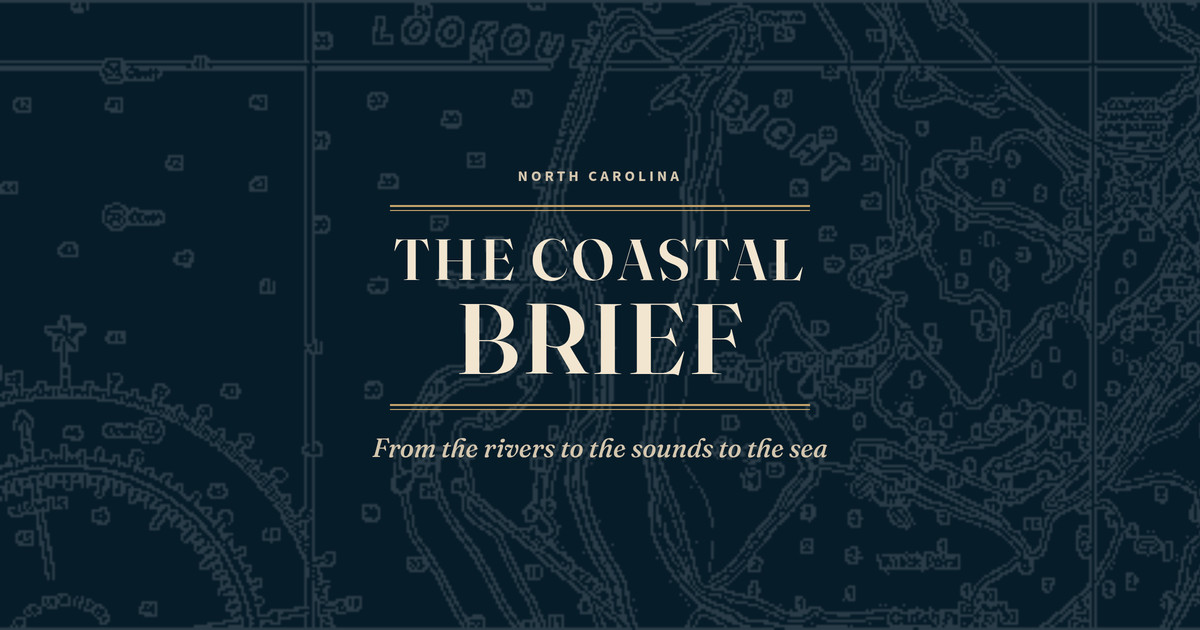
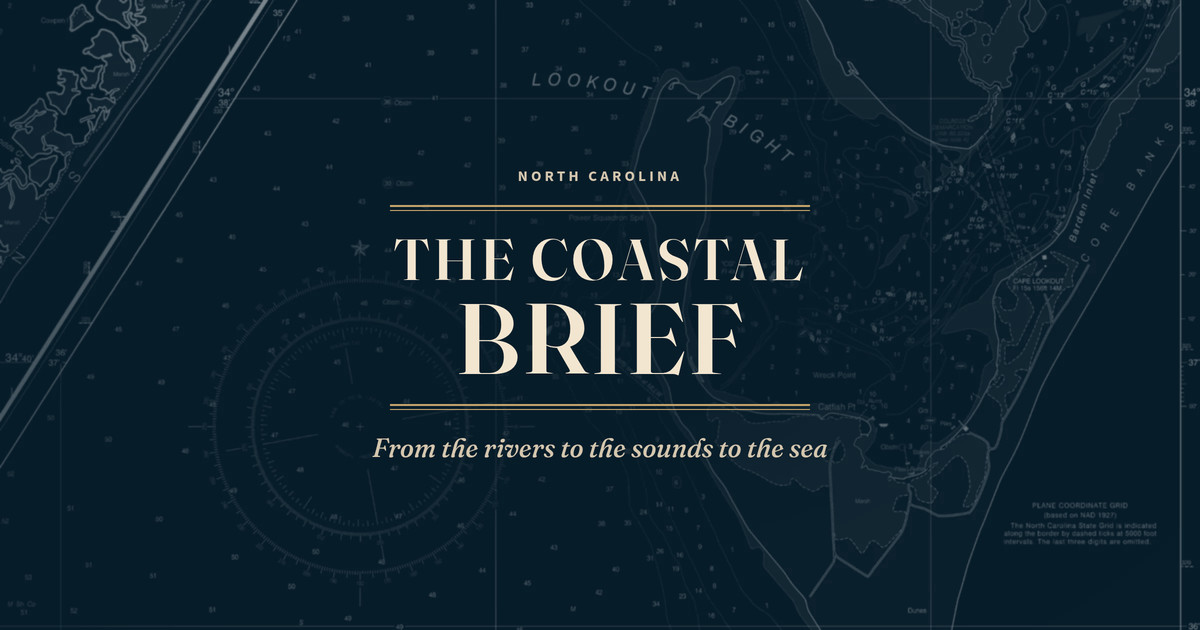
Fade the Open Graph chart texture with a higher-resolution crop.
Replace the enlarged 800×240 site-masthead webp on the OG card with a
separate 2400×1260 Lookout Bight crop from NOAA Chart 11545, smoothed
and contrast-crushed so it reads as a faint texture behind the nameplate.
Leave branding/og-preview.png in place.

diff --git a/branding/og-masthead.html b/branding/og-masthead.html
@@ -6,7 +6,9 @@
   Type: Fraunces and Source Sans 3, SIL Open Font License 1.1 (see /fonts).
   Texture: NOAA Chart 11545, Beaufort Inlet and Part of Core Sound; Lookout Bight,
   2023 final raster (11545-8-2023), public domain / CC0. Not for navigation.
-  Credit: docs/IDENTITY.md.
+  A separate higher-resolution Lookout Bight crop (branding/og-masthead-chart.webp,
+  2400×1260) is smoothed and contrast-crushed so it reads as a faint texture;
+  the 13.2 KB site masthead webp is not used here. Credit: docs/IDENTITY.md.
 -->
 <html lang="en">
 <head>
@@ -50,8 +52,9 @@
   .texture {
     position: absolute;
     inset: 0;
-    background: url("masthead-chart.webp") 68% 42% / cover no-repeat;
-    opacity: 0.14;
+    background: url("og-masthead-chart.webp") center / cover no-repeat;
+    opacity: 0.85;
+    mix-blend-mode: screen;
     pointer-events: none;
   }
   /* Centered safe area: remains intact in a 1.91:1 crop and a centered square crop. */

diff --git a/branding/render-og-masthead.js b/branding/render-og-masthead.js
@@ -4,7 +4,7 @@
  *   node branding/render-og-masthead.js
  *
  * Uses the SIL OFL Fraunces and Source Sans 3 files in /fonts, and the
- * public-domain NOAA Chart 11545 texture in masthead-chart.webp. Requires
+ * public-domain NOAA Chart 11545 texture in og-masthead-chart.webp. Requires
  * Chrome and puppeteer-core (override with CHROME and PUPPETEER).
  */
 const { spawnSync } = require("child_process");

diff --git a/docs/IDENTITY.md b/docs/IDENTITY.md
@@ -28,7 +28,7 @@ The dateline is filled in America/New_York by the server (`_apply_dateline`). Th
 
 A decorative, very low-contrast CSS background only — not content, not the LCP element, not for navigation.
 
-- File: `/branding/masthead-chart.webp` (sparse white linework on transparent, 800×240, 13.2 KB). The masthead inlines this as a CSS data URI under a navy veil (~16% residual contrast) so it is a decorative background with no extra image request and is not an LCP image resource. The same file is also requested by `/brief.css` for the brief chrome.
+- File: `/branding/masthead-chart.webp` (sparse white linework on transparent, 800×240, 13.2 KB). The masthead draws it as a CSS background on `header.site[data-identity]::before` at 16% opacity. The same file is also requested by `/brief.css` for the brief chrome.
 - Source chart: **NOAA Chart 11545**, *Beaufort Inlet and Part of Core Sound; Lookout Bight*, scale 1:40,000, 2023 (final raster edition, image `11545-8-2023`), published by NOAA Office of Coast Survey (NOAA-NOS).
 - Record: https://www.historicalcharts.noaa.gov/image.php?filename=11545-8-2023
 - JPEG: https://www.historicalcharts.noaa.gov/jpgs/11545-8-2023.jpg
@@ -53,6 +53,6 @@ Deep navy, warm ivory, restrained brass, with Atlantic / Pamlico / marsh / dock 
 
 On the `design/og-image` branch only. The public file `branding/og-preview.png` is not replaced.
 
-A 1200×630 card at `branding/og-masthead.jpg` (JPEG quality 90, under 300 KB) uses the same navy, ivory, brass, and NOAA Chart 11545 texture as the masthead. “THE COASTAL BRIEF” is set in the existing SIL OFL Fraunces, with the mission line “From the rivers to the sounds to the sea.” Type, vector rules, and the public-domain chart only. Important type sits in a centered 630×630 safe area so 1.91:1 and square-ish crops (iMessage, Facebook, X `summary_large_image`, LinkedIn) still read.
+A 1200×630 card at `branding/og-masthead.jpg` (JPEG quality 90, under 300 KB) uses the same navy, ivory, and brass as the masthead, with a separate higher-resolution crop of the Lookout Bight inset (`branding/og-masthead-chart.webp`, 2400×1260). That crop is smoothed and contrast-crushed, with a soft center vignette, so it reads as a faint texture and the nameplate stays dominant — it is not the 13.2 KB site-masthead webp, which pixelated when enlarged to this size. “THE COASTAL BRIEF” is set in the existing SIL OFL Fraunces, with the mission line “From the rivers to the sounds to the sea.” Type, vector rules, and the public-domain chart only. Important type sits in a centered 630×630 safe area so 1.91:1 and square-ish crops (iMessage, Facebook, X `summary_large_image`, LinkedIn) still read.
 
 Reproduce with `node branding/render-og-masthead.js` from `branding/og-masthead.html`. Public pages (`/`, `/catch-wall`, `/coastal-life`, `/photos`, `/brief?region=…`, `/lake?region=…`) point `og:image` and `twitter:image` at `https://thecoastalbrief.com/branding/og-masthead.jpg` and include width, height, and alt.
